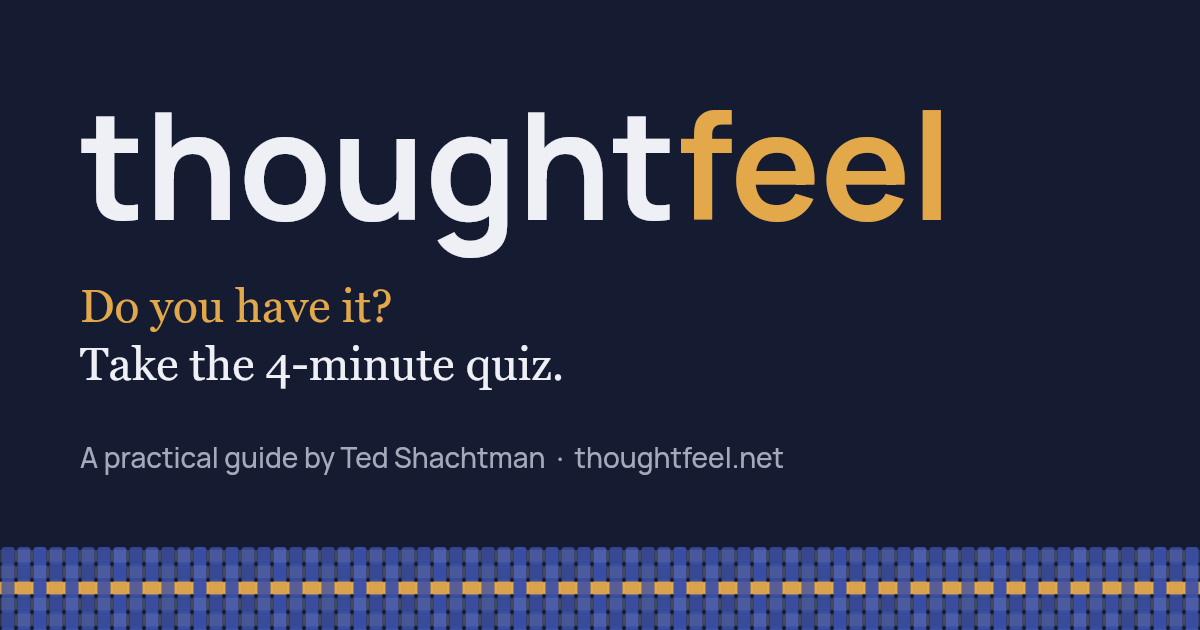
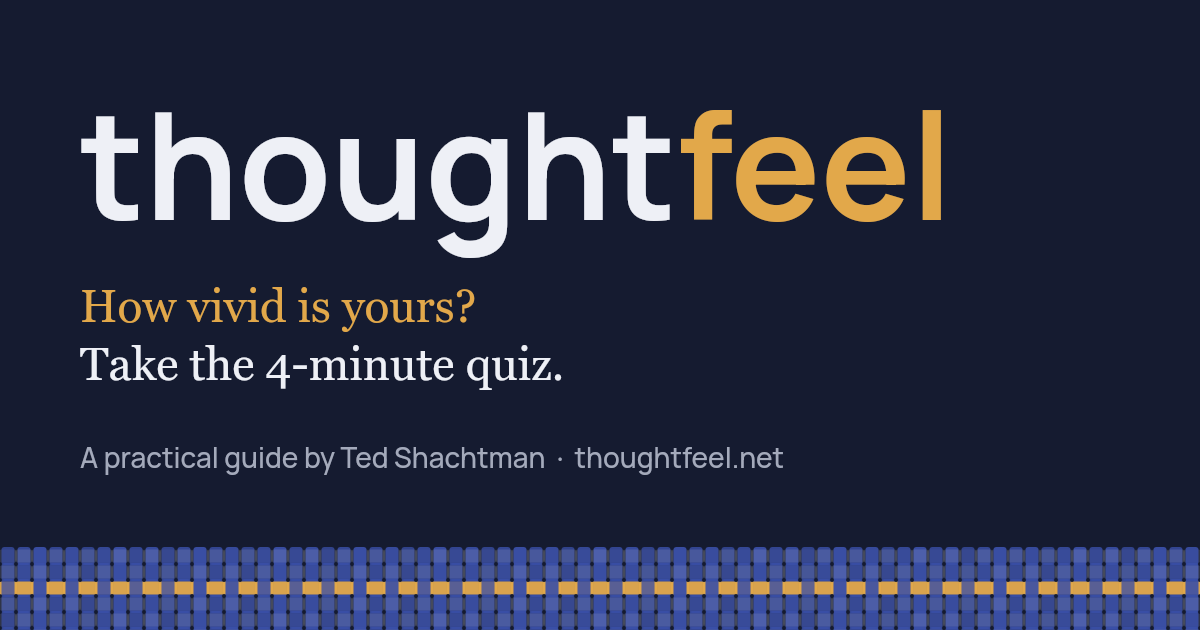
Update site

Changed region(s): [[0.0617, 0.4524, 0.4008, 0.5127]]

diff --git a/index.html b/index.html
@@ -532,8 +532,8 @@ window.tfTrack = function (path, title) {
   <header class="hero">
     <div class="hero-text">
       <h1 class="wordmark">thought<span>feel</span></h1>
-      <p class="tagline">An extra sense for concepts</p>
-      <p class="hero-copy">Some people have it and some don’t. It’s like the mind’s eye: some people can picture things vividly, and some, with aphantasia, see nothing at all. If you have thoughtfeel, you can imagine in concepts, not just words or images.</p>
+      <p class="tagline">A sense for concepts</p>
+      <p class="hero-copy">It seems to work like the mind’s eye. Most people likely have some of it, and some have none, the way people with aphantasia see nothing at all. Among those who have it, it ranges from faint to vivid, like the difference between picturing an apple in full color and seeing a dim or cartoon-like one. With thoughtfeel, you can imagine in concepts, not just words or images.</p>
       <p class="hero-guide">This is a practical guide to harnessing that ability to learn faster and remember more.</p>
       <p class="byline">BY <a href="#about">TED SHACHTMAN</a> · <a href="#videos">WATCH THE VIDEOS</a></p>
     </div>
@@ -542,7 +542,7 @@ window.tfTrack = function (path, title) {
       <canvas id="swatch" aria-hidden="true"></canvas>
       <div class="imt-card-body">
         <p class="eyebrow">The 1-minute test</p>
-        <h2 id="test-title">Do you have it?</h2>
+        <h2 id="test-title">How clearly can you imagine in concepts?</h2>
         <p class="imt-intro">Imagine one thing in a few ways.<span class="imt-intro-more"> There are no wrong answers.</span></p>
         <div class="panel imt-panel" id="imt" aria-live="polite">
           <!-- rendered by script; this is the no-script version -->
@@ -566,7 +566,7 @@ window.tfTrack = function (path, title) {
     <p class="what-body">You could describe a dog in writing: it has fur, a wet black nose, and it’s about the size of a capybara. Or you could look at it, and vision gives you all of that at once, with no list.</p>
     <p class="what-body">Concepts have properties too, including properties you could never see. Take the economy. You could write out what’s true of it: millions of people, making and trading things, sometimes booming and sometimes in a slump. People with thoughtfeel can still make that list in words. But when they use thoughtfeel, the sense takes in properties like these all at once.</p>
     <p class="what-body">That makes comparing fast. Show someone photos of two dogs, and they can tell right away whether it’s the same dog. If it isn’t, they can look again and point to why: one has a brown tail, the other a white one. With thoughtfeel, the same works for concepts you imagine. If two concepts aren’t the same, that’s clear right away, and paying attention to each one shows which properties differ.</p>
-    <p class="what-body">Like vision and hearing, it differs from person to person. For some people, taking in and imagining concepts is the default way they experience the world. For others, it’s much quieter. Just as people can imagine in pictures or in sounds, people with thoughtfeel can imagine in concepts.</p>
+    <p class="what-body">Like vision and hearing, it differs from person to person, and it most likely varies the way the mind’s eye does: most people have some of it, some have none, and among those who have it, it ranges from faint to vivid. For some people, taking in and imagining concepts is the default way they experience the world. For others, it’s much quieter. Just as people can imagine in pictures or in sounds, people with thoughtfeel can imagine in concepts.</p>
 
     <div class="what-text what-solo">
       <h3>Is it really all at once?</h3>
@@ -856,25 +856,25 @@ window.tfTrack = function (path, title) {
     function renderResult() {
       var A = {};
       STEPS.forEach(function (s, k) { if (!s.info) A[s.key] = answers[k]; });
-      // Whether someone has thoughtfeel is just whether they can imagine in concepts.
+      // How clearly someone can imagine in concepts decides the result: clearly, a little, or not at all.
       imtOutcome = A.concepts === 2 ? 'strong' : A.concepts === 1 ? 'faint' : 'none';
       imtSummary = STEPS.filter(function (s) { return !s.info; }).map(function (s) { return s.key + ': ' + WORD[A[s.key]]; }).join(', ') + ' (' + imtOutcome + ')';
 
       var head, text;
       if (imtOutcome === 'strong') {
         head = 'You can imagine in concepts.';
-        text = 'That means you have thoughtfeel, an extra sense for concepts. For people who have it, imagining in concepts is vivid, and distinct from both the picture and the words. The lessons show how to use it to remember exact wording, notice when two situations are the same idea, and remember things at the right moment.';
+        text = 'That’s thoughtfeel, a sense for concepts, and yours sounds clear: imagining in concepts is vivid for you, and distinct from both the picture and the words. The lessons show how to use it to remember exact wording, notice when two situations are the same idea, and remember things at the right moment.';
       } else if (imtOutcome === 'faint') {
         head = 'You may be able to imagine in concepts, a little.';
-        text = 'It may get clearer once you know what to attend to. The first lesson describes what imagining in concepts is like for people who have it, and the other lessons show how to use it.';
+        text = 'Yours may be faint, the way some people’s mind’s eye is dim. It may get clearer once you know what to attend to. The first lesson describes what imagining in concepts is like, and the other lessons show how to use it.';
       } else {
         var modes = [];
         if (A.images >= 1) modes.push('images');
         if (A.sounds >= 1) modes.push('sounds');
         head = modes.length ? 'You imagine in ' + modes.join(' and ') + '.' : 'You mostly know what you’re imagining.';
         text = modes.length
-          ? 'Those are the usual ways to imagine. Some people can also imagine in concepts; the rest of this page is about how they can use it. If you’re curious what it’s like, the first lesson describes it.'
-          : 'Some people imagine in pictures, sounds or concepts. If you’re curious what imagining in concepts is like, the first lesson describes it.';
+          ? 'Those are the usual ways to imagine. Many people can also imagine in concepts, some faintly and some vividly; for you it may be very faint, or not there at all. The rest of this page is about how people use it. If you’re curious what it’s like, the first lesson describes it.'
+          : 'People imagine in pictures, sounds and concepts, and each one is faint for some people and vivid for others. If you’re curious what imagining in concepts is like, the first lesson describes it.';
       }
 
       var rows = [['In images', A.images, ''], ['In sounds', A.sounds, ''], ['In concepts', A.concepts, 'gold']];

diff --git a/quiz/index.html b/quiz/index.html
@@ -8,15 +8,15 @@
 <link rel="icon" href="/favicon.svg" type="image/svg+xml">
 <meta property="og:type" content="website">
 <meta property="og:site_name" content="thoughtfeel">
-<meta property="og:title" content="Do you have thoughtfeel? Take the quiz">
+<meta property="og:title" content="How vivid is your thoughtfeel? Take the quiz">
 <meta property="og:description" content="Ten quick questions about how you recall lyrics, put ideas into words and imagine in concepts. See how many signs of thoughtfeel you match.">
 <meta property="og:url" content="https://thoughtfeel.net/quiz/">
 <meta property="og:image" content="https://thoughtfeel.net/og-quiz.png">
 <meta property="og:image:width" content="1200">
 <meta property="og:image:height" content="630">
-<meta property="og:image:alt" content="Do you have it? The 4-minute thoughtfeel quiz.">
+<meta property="og:image:alt" content="How vivid is yours? The 4-minute thoughtfeel quiz.">
 <meta name="twitter:card" content="summary_large_image">
-<meta name="twitter:title" content="Do you have thoughtfeel? Take the quiz">
+<meta name="twitter:title" content="How vivid is your thoughtfeel? Take the quiz">
 <meta name="twitter:description" content="Ten quick questions about how you recall lyrics, put ideas into words and imagine in concepts. See how many signs of thoughtfeel you match.">
 <meta name="twitter:image" content="https://thoughtfeel.net/og-quiz.png">
 <script>
@@ -186,7 +186,7 @@ window.tfTrack = function (path, title) {
     <div class="card-body" id="quiz" aria-live="polite">
       <!-- rendered by script; this is the intro and the no-script state -->
       <p class="eyebrow">The thoughtfeel quiz · about 4 minutes</p>
-      <h1>Do you have it?</h1>
+      <h1>How vivid is your thoughtfeel?</h1>
       <p class="lede">Ten quick questions about everyday things: how lyrics come back to you, what an idea is like before you put it into words, how two numbers feel. Some of the answers are how people with thoughtfeel describe these things. Pick the one that sounds most like you.</p>
       <p class="note">There are no right answers. At the end, you’ll see which answers people with thoughtfeel give.</p>
       <noscript><p class="note">The quiz needs JavaScript turned on.</p></noscript>
@@ -394,10 +394,10 @@ window.tfTrack = function (path, title) {
       text = 'That includes the two that matter most: imagining in concepts, and recognizing a thought by its feel alone. The lessons show how to use it to remember exact wording, notice when two situations are the same idea, and remember things at the right moment.';
     } else if (result.outcome === 'maybe') {
       head = 'You may have a quieter version.';
-      text = 'It may get clearer once you know what to attend to. The first lesson describes what it’s like for people who have it.';
+      text = 'Like a dim mind’s eye, thoughtfeel can be faint. It may get clearer once you know what to attend to. The first lesson describes what it’s like for people who have it.';
     } else {
-      head = 'You probably don’t have thoughtfeel, or it’s very quiet.';
-      text = 'Most of your answers describe pictures, words and knowing, which is how a lot of people think. If you’re curious what the other way is like, the first lesson describes it.';
+      head = 'Your answers don’t point to thoughtfeel.';
+      text = 'For you, it may be faint or not there at all. Like the mind’s eye, it seems to range from absent to vivid. Most of your answers describe pictures, words and knowing, which is how a lot of people think. If you’re curious what the other way is like, the first lesson describes it.';
     }
     quiz.innerHTML =
       '<p class="eyebrow">Your result</p>' +
@@ -502,12 +502,12 @@ window.tfTrack = function (path, title) {
     var pg = 14, pw = (maxW - pg * (N - 1)) / N;
     for (var k = 0; k < N; k++) { g.fillStyle = k < res.signs ? WELD : DIM; pill(g, x0 + k * (pw + pg), 812, pw, 22); }
 
-    var verdict = { strong: 'My answers sound like thoughtfeel.', maybe: 'I may have a quieter version.', none: 'Probably not me. What about you?' }[res.outcome];
+    var verdict = { strong: 'My answers sound like thoughtfeel.', maybe: 'I may have a quieter version.', none: 'Faint or absent for me. What about you?' }[res.outcome];
     g.font = 'italic 400 50px Literata, Georgia, serif'; g.fillStyle = PAPER;
     wrapText(g, verdict, x0, 956, maxW, 66);
 
     g.font = '500 46px "Schibsted Grotesk", Arial, sans-serif'; g.fillStyle = WELD;
-    g.fillText('Do you have it?', x0, 1110);
+    g.fillText('How vivid is yours?', x0, 1110);
     g.font = '400 38px "IBM Plex Mono", Menlo, monospace'; g.fillStyle = MUTED;
     g.fillText('thoughtfeel.net/quiz', x0, 1166);
     return c;
@@ -532,7 +532,7 @@ window.tfTrack = function (path, title) {
     }).catch(function () {});
   }
 
-  function shareText() { return 'I matched ' + result.signs + ' of ' + N + ' signs of thoughtfeel. Do you have it?'; }
+  function shareText() { return 'I matched ' + result.signs + ' of ' + N + ' signs of thoughtfeel. How vivid is yours?'; }
 
   function shareResult() {
     // Phones (and some desktops) can share the image itself.
